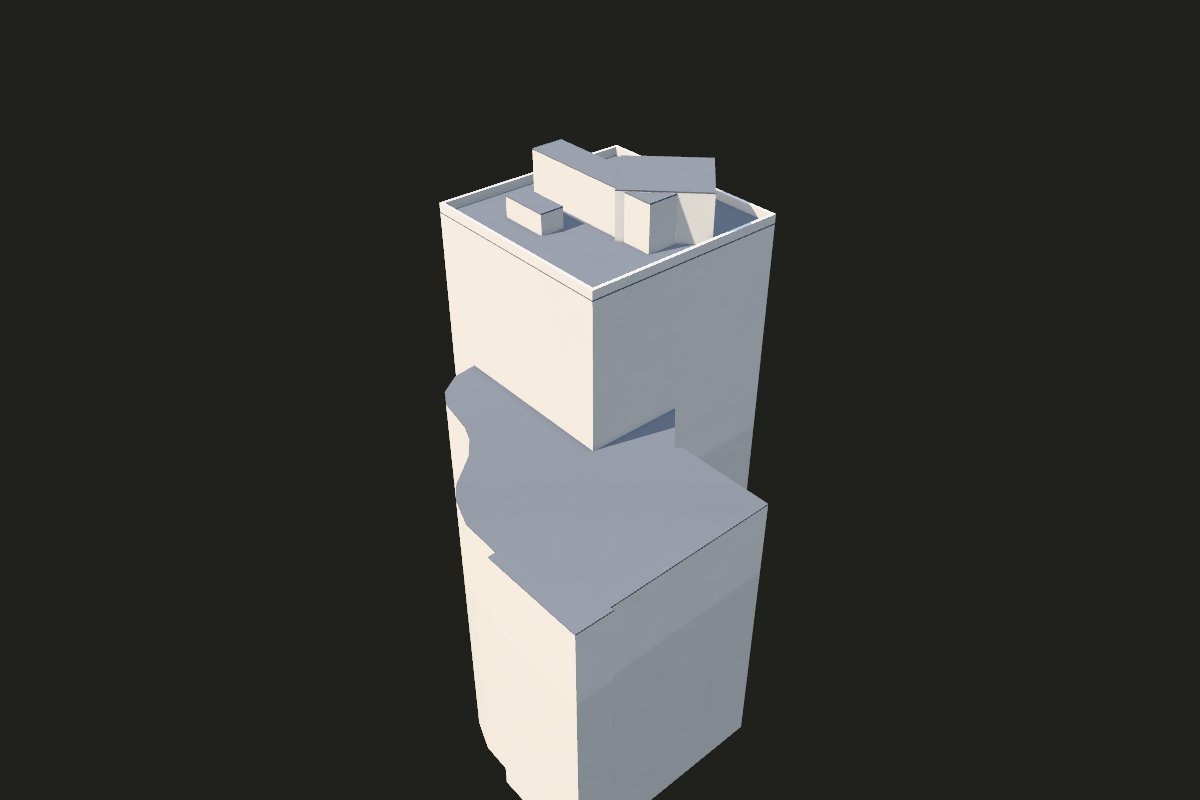
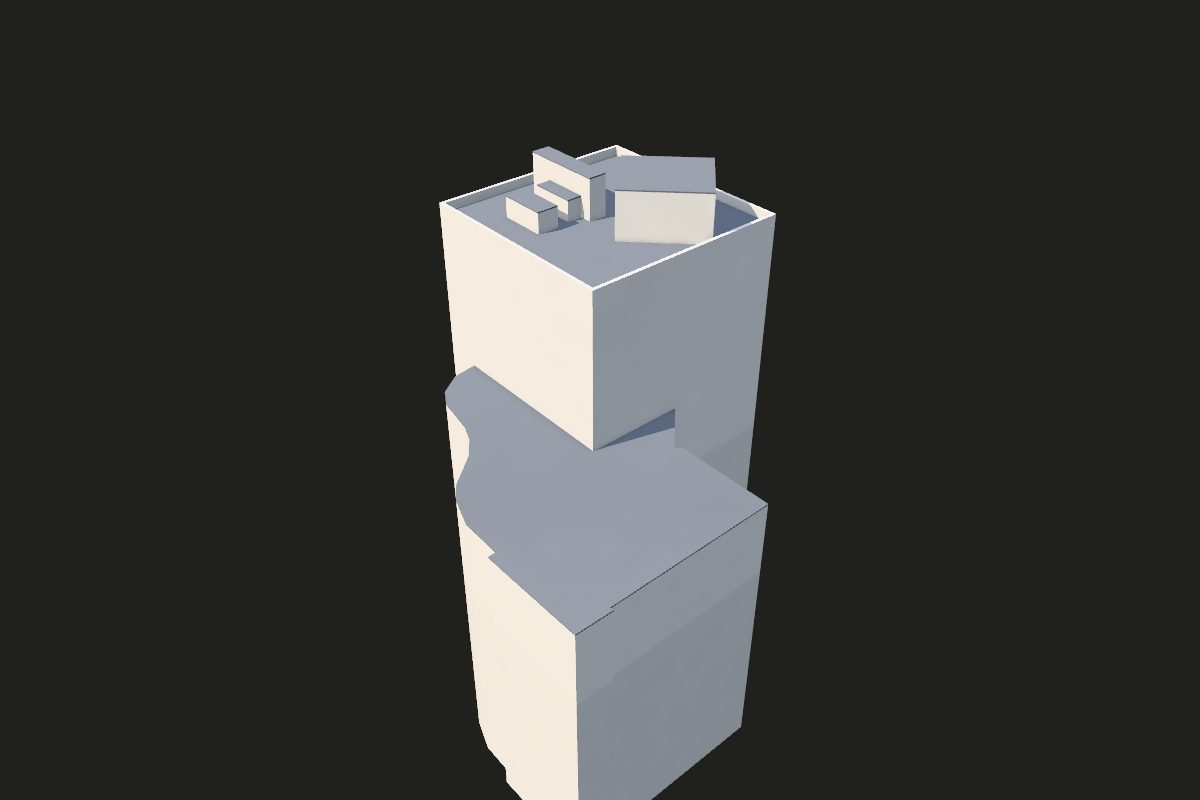
67 Symonds Street (619), the review's round 1
The bar over the tower's roof is drawn to the LiDAR's returns over 94 m (u -17.1 to -7.5, w 5.0 to
7.2, at 95.2 m); it had run out west of the turned block over bare roof. A second plant room at
92.8 m (u -14.2 to -8.9, w 3.2 to 5.0) is added, and the first is trimmed to u -8.6. The podium's
east side is drawn 0.1 m inside the tower's east face: the campus map's ring had stood 0.15 to
0.21 m out from it, from the walls' foot to 72.6 m. The tower's walls are white up to the
parapet's top, and its roof slab sits inside the parapet, so no grey band runs round the tower
under its top. The windows are four rows, the ones the photograph sees, not five. The porch's plan
(the campus map's outline) is named as estimated in the config, and so on the card.

MASSING.md: the generator measures 26 stand-ins, not 27. The README says that 67 Symonds Street
is now a landmark. The README, the landmark's README and its contract carry the new figures:
744 triangles in 4 draw calls; silhouette IoU 0.947 in the model's box (0.698 over the
photograph); top view IoU 0.929, 80% of cells within 0.5 m. The four pictures are retaken.

Claude-Session: https://claude.ai/code/session_01WyPcwFTXkmVC7XB6LWPSiH

Changed region(s): [[0.4317, 0.1562, 0.5858, 0.3125]]

diff --git a/landmarks/67-symonds-street/parts/common.js b/landmarks/67-symonds-street/parts/common.js
@@ -16,26 +16,29 @@ export const at = (u, w) => [-u, w];
 export const H = (h) => h - 7.83;
 export const plan = (corners) => corners.map(([u, w]) => at(u, w));
 
-// The ground round the building lies from -15.8 (the gully on the west and north, about 39.9 m) to 7.8 (the street on
-// the south); the walls go down to FOOT.
+// The ground round the building lies from -15.8 (the gully on the west and north, about 39.9 m) to 7.8 (63.5 m on its
+// south side; the street before it rises to 66.5 m); the walls go down to FOOT.
 export const FOOT = H(-16.7);
 
 /** The podium: the campus map's ring (in the frame), its roof at 16.94 (the LiDAR's 72.5 to 73.8 m over it, 72.6 the
  * most), with the tower standing on it; but for the ring's triangle south of the tower's south-east part (the porch,
- * below), which the LiDAR sees the ground under (120 returns at 61.9 to 65.4 m), the ring's south side drawn 0.1 m
- * inside the tower's south face, which goes down to the ground. */
+ * below), which the LiDAR sees the ground under, the ring's south side drawn 0.1 m inside the tower's south face, which
+ * goes down to the ground; and its east side 0.1 m inside the tower's east face, where the ring stands 0.15 to 0.21 m
+ * out from it (the LiDAR's returns on that face run on from 56 to 90 m with no step at the podium's roof). */
 export const PODIUM = {
   plan: [[23.42, -22.81], [23.43, -18.51], [23.02, -18.6], [22.74, 1.81], [11.14, 1.71], [10.53, 1.12], [5.26, 6.26],
-    [5.2, 19.55], [-20.11, 19.55],
-    [-20.05, -5.5], [-15.65, -5.51], [-15.23, -8.52], [-13.3, -11.27], [-11.32, -12.42], [-6.64, -13.24],
+    [5.2, 19.55], [-19.8, 19.55],
+    [-19.8, -5.5], [-15.65, -5.51], [-15.23, -8.52], [-13.3, -11.27], [-11.32, -12.42], [-6.64, -13.24],
     [-4.47, -14.1], [-2.11, -15.86], [0.8, -19.33], [2.77, -20.68], [6.14, -21.87], [11.14, -22.0], [11.11, -22.9],
     [14.51, -22.88]],
   top: H(16.94),
 };
 
-/** The porch over the entrance, in the ring's triangle south of the tower: the LiDAR's roof at 71.0 to 72.3 m (p50 71.9)
- * over the ground it sees through it, drawn as a glass roof from 71.66 to 72.26 m on the tower's face; the glass
- * pyramid the photograph shows on it, its top about 74.8 m through the photograph's camera, is not drawn. */
+/** The porch over the entrance, in the ring's triangle south of the tower: the LiDAR's roof at 71.0 to 72.3 m (p50
+ * 71.9) over the ground it sees through it, drawn as a glass roof from 71.66 to 72.26 m on the tower's face. Its plan
+ * is the ring's triangle (estimated: the LiDAR's roof at that height runs on into the walkway's canopy outside the
+ * ring, with no edge between them); the glass pyramid the photograph shows on it, its top about 74.8 m through the
+ * photograph's camera, is not drawn. */
 export const PORCH = {
   plan: [[-7.7, 19.65], [-11.9, 23.8], [-14.47, 21.06], [-17.97, 21.05], [-19.31, 19.65]].reverse(),
   y: [H(16.0), H(16.6)],
@@ -52,25 +55,32 @@ export const TOWER = {
   thick: 0.4,
 };
 
-/** Over the tower's roof, from the LiDAR's returns over 95 m: a square block turned 45 degrees (its sides on u + w =
- * 1.65 and 15.74 and u - w = -18.79 and -6.2, p0.5 and p99.5 of its returns) to 96.0 m (40.34; p50 95.53, p90
- * 96.05), a bar along its south-east side (u -16.6 to 2.1, w 4.6 to 8.6) to 95.8 m (40.14), and plant at 92.8 m
- * (37.14) over u -14.1 to -8.1, w -1.0 to 1.9. */
+/** Over the tower's roof, from the LiDAR's returns: a square block turned 45 degrees (its sides on u + w = 1.65 and
+ * 15.74 and u - w = -18.79 and -6.2, p0.5 and p99.5 of its returns over 95 m) to 96.0 m (40.34; p50 95.53, p90
+ * 96.05); east of it a bar (u -17.1 to -7.5, w 5.0 to 7.2, its returns over 94 m) to 95.2 m (39.54; p50 95.14); and two
+ * plant rooms at 92.8 m (37.14; p50 92.77), u -14.1 to -8.6, w -1.0 to 1.6, and u -14.2 to -8.9, w 3.2 to 5.0. */
 export const CORE = [
   { plan: [[-2.28, 3.93], [4.77, 10.97], [-1.53, 17.27], [-8.57, 10.22]], top: H(40.34) },
-  { plan: [[-16.6, 4.6], [2.1, 4.6], [2.1, 8.6], [-16.6, 8.6]], top: H(40.14) },
-  { plan: [[-14.1, -1.0], [-8.1, -1.0], [-8.1, 1.9], [-14.1, 1.9]], top: H(37.14) },
+  { plan: [[-17.1, 5.0], [-7.5, 5.0], [-7.5, 7.2], [-17.1, 7.2]], top: H(39.54) },
+  { plan: [[-14.1, -1.0], [-8.6, -1.0], [-8.6, 1.6], [-14.1, 1.6]], top: H(37.14) },
+  { plan: [[-14.2, 3.2], [-8.9, 3.2], [-8.9, 5.0], [-14.2, 5.0]], top: H(37.14) },
 ];
 
 /** The faces the photograph sees, every place and height estimated through its fitted camera (rms 2.25 px): storeys
- * 4.04 m apart, the top windows' heads at 34.78 (0.9 m under the parapet's top) and each window 2.46 m tall, five rows
- * seen over the entrance's canopy. On the south face (w 19.65) three columns of windows (u -9.34 to -7.45, -12.14 to
- * -10.29, -15.16 to -13.17), a curved glazed bay (u -6.38 to -2.24) with dark bands from 31.08 to 33.96 a storey, and
- * plain panels either side; on the east face (u -19.9) a louvred panel (w 12.55 to 15.13) and three windows (w 9.30 to
- * 11.81, 5.65 to 8.39, 1.89 to 4.66) a storey, the rest behind a tree. */
+ * 4.04 m apart, the top windows' heads at 34.48 (the camera puts them at 34.78, 0.14 m over the roof's deck at 34.64:
+ * drawn 0.3 m lower, under it) and each window 2.46 m tall, the four rows the photograph sees over the porch. On the
+ * south face (w 19.65) three columns of windows (u -9.34 to -7.45, -12.14 to -10.29, -15.16 to -13.17), a curved
+ * glazed bay (u -6.38 to -2.24) with dark bands from 31.08 to 33.96 a storey, and plain panels either side; on the
+ * east face (u -19.9) a louvred panel (w 12.55 to 15.13) and three windows (w 9.30 to 11.81, 5.65 to 8.39, 1.89 to
+ * 4.66) a storey, the rest behind a tree. */
 export const FACES = {
-  heads: [0, 1, 2, 3, 4].map((k) => H(34.78 - 4.04 * k)),
+  heads: [0, 1, 2, 3].map((k) => H(34.48 - 4.04 * k)),
   window: 2.46,
-  south: { w: 19.65, windows: [[-9.34, -7.45], [-12.14, -10.29], [-15.16, -13.17]], bay: [-6.38, -2.24], band: [H(31.08), H(33.96)] },
+  south: {
+    w: 19.65,
+    windows: [[-9.34, -7.45], [-12.14, -10.29], [-15.16, -13.17]],
+    bay: [-6.38, -2.24],
+    band: [H(31.08), H(33.96)],
+  },
   east: { u: -19.9, louvre: [12.55, 15.13], windows: [[9.30, 11.81], [5.65, 8.39], [1.89, 4.66]] },
 };

diff --git a/landmarks/67-symonds-street/parts/block.js b/landmarks/67-symonds-street/parts/block.js
@@ -11,16 +11,19 @@ export function podium(b) {
 }
 
 /** The tower: its walls from the walls' foot (its south face goes down to the ground, the podium standing inside it
- * elsewhere) to its roof, the roof inside the parapet, and the parapet round it. */
+ * elsewhere) to the roof slab's underside, the parapet on them round its edge to its top, and the roof inside the
+ * parapet, so that the walls are white up to the parapet's top. */
 export function tower(b) {
   const [u0, u1] = TOWER.u, [w0, w1] = TOWER.w, t = TOWER.thick;
-  block(b, plan([[u0, w0], [u1, w0], [u1, w1], [u0, w1]]), FOOT, TOWER.roof, WALL, ROOFS);
+  prism(b, plan([[u0, w0], [u1, w0], [u1, w1], [u0, w1]]), FOOT, TOWER.roof - 0.15, WALL);
+  const inner = [[u0 + t, w0 + t], [u1 - t, w0 + t], [u1 - t, w1 - t], [u0 + t, w1 - t]];
+  prism(b, plan(inner), TOWER.roof - 0.15, TOWER.roof, ROOFS);
   for (const p of [
     [[u0, w0], [u1, w0], [u1, w0 + t], [u0, w0 + t]],
     [[u0, w1 - t], [u1, w1 - t], [u1, w1], [u0, w1]],
     [[u0, w0 + t], [u0 + t, w0 + t], [u0 + t, w1 - t], [u0, w1 - t]],
     [[u1 - t, w0 + t], [u1, w0 + t], [u1, w1 - t], [u1 - t, w1 - t]],
-  ]) prism(b, plan(p), TOWER.roof + 0.01, TOWER.parapet, WALL);
+  ]) prism(b, plan(p), TOWER.roof - 0.15, TOWER.parapet, WALL);
 }
 
 /** The porch's glass roof on the tower's south face, open under it. */

diff --git a/landmarks/67-symonds-street/parts/facade.js b/landmarks/67-symonds-street/parts/facade.js
@@ -11,7 +11,8 @@ function south(b, d0, d1, [u0, u1], [y0, y1], material) {
   prism(b, [[-u0, w + d0], [-u1, w + d0], [-u1, w + d1], [-u0, w + d1]], y0, y1, material);
 }
 
-/** A box on the east face (u = FACES.east.u), from d0 to d1 in front of it (to the east), over [w0, w1] and [y0, y1]. */
+/** A box on the east face (u = FACES.east.u), from d0 to d1 in front of it (to the east), over [w0, w1] and
+ * [y0, y1]. */
 function east(b, d0, d1, [w0, w1], [y0, y1], material) {
   const u = FACES.east.u;
   prism(b, [[-(u - d0), w0], [-(u - d1), w0], [-(u - d1), w1], [-(u - d0), w1]], y0, y1, material);

diff --git a/landmarks/67-symonds-street/docs/CONTRACT.md b/landmarks/67-symonds-street/docs/CONTRACT.md
@@ -13,12 +13,12 @@ The rules every part of this landmark keeps. The kit, the pipeline and the viewe
   one above the door's ground (7.83 m higher).
 - What the LiDAR shows (`parts/common.js` holds the numbers): a tower (u -19.9 to 5.5, w -5.65 to 19.65) with its
   parapet's top at 91.30 to 91.36 m and its roof at 90.3 m, a block turned 45 degrees and a bar over its roof to 96.0
-  and 95.8 m and plant at 92.8 m; a podium round its north and west, inside the campus map's ring, its roof at 72.5 to
-  73.8 m, running down the slope to the gully on the west (its ground at about 40 m); in the ring's triangle south of
-  the tower's south-east part a roof at 71.0 to 72.3 m over ground the LiDAR sees through it (the porch). The walkway
-  and its canopy, outside the ring, and the lower block to the south-west (65 m) are not drawn.
+  and 95.2 m and two plant rooms at 92.8 m; a podium round its north and west, inside the campus map's ring, its roof at
+  72.5 to 73.8 m, running down the slope to the gully on the west (its ground at about 40 m); in the ring's triangle
+  south of the tower's south-east part a roof at 71.0 to 72.3 m over ground the LiDAR sees through it (the porch). The
+  walkway and its canopy, outside the ring, and the lower block to the south-west (65 m) are not drawn.
 - Walls go down to `FOOT`, 16.7 m under 55.66 m (38.96 m): the ground round the ring lies from 39.9 m (the gully) to
-  66.5 m (the street).
+  63.5 m on its south side, the street before it rising to 66.5 m.
 
 ## Who owns what
 - `parts/common.js` (the measured sizes and the frame), `parts/block.js`, `parts/facade.js`, `parts/shapes.js` (114's),
@@ -26,7 +26,7 @@ The rules every part of this landmark keeps. The kit, the pipeline and the viewe
 
 ## Budget
 - Whole building ≤ 100k triangles and ≤ 10 draw calls (tier 2, a stand-in measured massing drawn in detail), merged by
-  material. Round 0 and steps 5 to 7: 816 triangles, 4 draw calls.
+  material. Round 0 and steps 5 to 7: 816 triangles, 4 draw calls; the review's round 1: 744, 4.
 
 ## Rounds
 - Round 0 to step 7 (2026-11-11, the lead alone): the podium on the campus map's ring at the LiDAR's roof, the tower at
@@ -35,18 +35,27 @@ The rules every part of this landmark keeps. The kit, the pipeline and the viewe
   to the tower's two roof edges against the sky, its south-east and south-west corners and their verticals (rms 2.25 px,
   1.67 m over the LiDAR's ground at the camera, a lens of 46.6 degrees, about 57 m from the south-east corner). The
   faces it sees, estimated through it: storeys 4.04 m apart, five rows of windows (`glass`) on the south face's three
-  columns and the east face's three, its louvred panels (`claddingPale`), the curved bay's dark bands. The door on the
-  walkway before the porch (63.49 m; no record of the entrance), `H`, the thresholds and the camera moved with it. The
-  light: the sun high to the north-north-east (15 deg, 45 up), exposure 0.62: the south face's plain panels 143 against
-  144, the east face's 198 against 194. Silhouette IoU 0.944 in the model's box (0.697 over the photograph); luma p50
-  144 against 152. Top view: footprint IoU 0.929, 79% of 5,200 cells within 0.5 m (the podium's and the tower's parapets
-  and the plant over the roofs, not drawn, make most of the rest); the highest point 32.52 m over the door's ground
-  against the LiDAR's 32.66; block 619 99.9% under the model.
+  columns and the east face's three, its louvred panels (`claddingPale`), the curved bay's dark bands. The
+  door on the walkway before the porch (63.49 m; no record of the entrance), `H`, the thresholds and the camera moved
+  with it. The light: the sun high to the north-north-east (15 deg, 45 up), exposure 0.62: the south face's plain panels
+  143 against 144, the east face's 198 against 194. Silhouette IoU 0.944 in the model's box (0.697 over the photograph);
+  luma p50 144 against 152. Top view: footprint IoU 0.929, 79% of 5,200 cells within 0.5 m (the podium's parapets and
+  the plant on its roof, not drawn, make most of the rest); the highest point 32.52 m over the door's ground against the
+  LiDAR's 32.66; block 619 99.9% under the model.
 
 - Step 8 (2026-11-11): on the site; the tower's walls down to the walls' foot, the podium's south side 0.1 m inside
   the tower's south face and the parapet from 1 cm over the roof's slab, where the landmark tests' faces check found
   faces of two materials in one plane; the roofs mid-grey (`roofGrey`), as the 2023 aerial shows them (luma 124 to
   184). 816 triangles, 4 draw calls.
+
+- The review's round 1 (2026-11-11): the bar over the roof to the LiDAR's returns over 94 m (u -17.1 to -7.5, w 5.0
+  to 7.2, at 95.2 m; it ran out west of the turned block over bare roof), a second plant room at 92.8 m (u -14.2 to
+  -8.9, w 3.2 to 5.0) and the first trimmed to u -8.6; the podium's east side inside the tower's east face, where the
+  ring stood 0.2 m out from it from the walls' foot to 72.6 m; the tower's walls white up to the parapet's top, the roof
+  slab inside the parapet; four rows of windows, the ones the photograph sees, their heads 0.3 m under the camera's,
+  under the roof's deck; the porch's plan named as the campus map's (estimated); the stand-ins the generator measures
+  26. 744 triangles, 4 draw calls; silhouette IoU 0.947 in the model's box (0.698 over the photograph), luma p50 144
+  against 152; top view: footprint IoU 0.929, 80% of 5,200 cells within 0.5 m.
 
 ## Rules
 - Measure, don't guess: a size not from the LiDAR is named in the config's `estimated`, here and on the card.

diff --git a/landmarks/67-symonds-street/README.md b/landmarks/67-symonds-street/README.md
@@ -61,17 +61,23 @@ estimated; it is a reference for the look and the comparison.
   p99.5), its top at 91.35 m (91.30 to 91.36 along every edge), 0.4 m thick (estimated); its roof inside at 90.3 m
   (`roofGrey`). Its south face goes down to the walls' foot.
 - **Over its roof**: a block turned 45 degrees (its sides on u + w = 1.65 and 15.74 and u - w = -18.79 and -6.2) to 96.0
-  m, a bar along its south-east side (u -16.6 to 2.1, w 4.6 to 8.6) to 95.8 m, and plant at 92.8 m (u -14.1 to -8.1, w
-  -1.0 to 1.9): the LiDAR's returns over 95 m and at 92.8.
-- **The podium** (`paint`, its roof `roofGrey`): the campus map's ring, its roof at 72.6 m (the LiDAR's 72.5 to 73.8
+  m; east of it a bar (u -17.1 to -7.5, w 5.0 to 7.2) to 95.2 m; and two plant rooms at 92.8 m (u -14.1 to -8.6, w -1.0
+  to 1.6, and u -14.2 to -8.9, w 3.2 to 5.0): the LiDAR's returns over 95 m, over 94 m and at 92.4 to 93.2 m.
+- **The podium** (`paint`, its roof `roofGrey`): the campus map's ring, its south and east sides drawn 0.1 m inside the
+  tower's faces (on the east the ring stands 0.15 to 0.21 m out from the tower, where the LiDAR's returns on that face
+  run on from 56 to 90 m with no step at the podium's roof), its roof at 72.6 m (the LiDAR's 72.5 to 73.8
   over it), down to the walls' foot; it runs down the slope to the gully on the west, where the ground lies at about 40
   m. Its walls follow the ring (estimated); the LiDAR's roof reaches past it by up to about 1 m in places.
 - **The porch**: in the ring's triangle south of the tower's south-east part, the LiDAR has a roof at 71.0 to 72.3 m
-  (p50 71.9) over the ground it sees through it (120 returns at 61.9 to 65.4 m): a glass roof (`glass`) from 71.66 to
-  72.26 m on the tower's face, open under it. The glass pyramid the photograph shows on it (its top about 74.8 m
-  through the photograph's camera) is not drawn.
+  (p50 71.9) over the ground it sees through it and round it (120 ground returns at 61.9 to 65.4 m over u -20 to -7, w
+  19.8 to 24.5, 3 of them inside the triangle itself): a glass roof (`glass`) from 71.66 to
+  72.26 m on the tower's face, open under it. Its plan is the ring's triangle (estimated: the LiDAR's roof at that
+  height runs on into the walkway's canopy outside the ring, with no edge between them). The glass pyramid the
+  photograph shows on it (its top about 74.8 m through the photograph's camera) is not drawn, nor a flat layer under its
+  roof at 65.3 to 65.9 m (about 38 returns: a landing or the walkway's deck).
 - **The faces the photograph sees**, through its fitted camera (estimated): storeys 4.04 m apart, the top windows' heads
-  0.9 m under the parapet's top and each window 2.46 m tall, five rows seen over the porch; on the south face three
+  at 90.0 m (the camera puts them at 90.44, 0.14 m over the roof's deck: drawn 0.3 m lower, under it) and each window
+  2.46 m tall, the four rows the photograph sees over the porch; on the south face three
   columns of windows (`glass`; u -9.34 to -7.45, -12.14 to -10.29, -15.16 to -13.17), the curved bay (u -6.38 to -2.24)
   as dark bands from 31.08 to 33.96 m over 55.66 m a storey, and plain panels either side; on the east face a louvred
   panel (`claddingPale`, w 12.55 to 15.13) and three windows (w 9.30 to 11.81, 5.65 to 8.39, 1.89 to 4.66) a storey.
@@ -81,10 +87,10 @@ estimated; it is a reference for the look and the comparison.
   against the photograph's 144 and 149, of the east face's 198 against 194 (the compare's figure over the model's screen
   box: 144 against 152).
 
-Silhouette IoU 0.944 in the model's screen box (0.697 over the photograph, whose neighbouring towers, tree and canopy
+Silhouette IoU 0.947 in the model's screen box (0.698 over the photograph, whose neighbouring towers, tree and canopy
 the model does not draw). The top view: footprint IoU 0.929 (the LiDAR's 1,400 m² against the model's 1,303, both
-1,302), 79% of the 5,200 cells both cover within 0.5 m (p10/p50/p90 -1.09/0.05/0.19 m: the parapets and plant on the
-roofs make most of the rest); the highest point 32.52 m over the door's ground against the LiDAR's 32.66 (p99.9). 816
+1,302), 80% of the 5,200 cells both cover within 0.5 m (p10/p50/p90 -1.13/0.04/0.10 m: the parapets and plant on the
+roofs make most of the rest); the highest point 32.52 m over the door's ground against the LiDAR's 32.66 (p99.9). 744
 triangles, 4 draw calls.
 
 ## On the map (step 7)

diff --git a/README.md b/README.md
@@ -868,12 +868,12 @@ white office tower of about eight storeys over Symonds Street, with a block turn
 on a podium that runs down the slope to the gully on its north and west; on its south face three columns of windows
 and a curved bay of dark glass bands, on its east face louvred panels and windows; a glass porch over its entrance.
 Its heights and plans come from the LiDAR, which also sees the ground under the porch's roof; the windows, the bay's
-bands and the louvres are estimated with the photograph as a reference, and the podium's walls follow the campus map's
-outline. One photograph from the street south-east of the tower, under an overcast sky; counted inside the rectangle
-the model fills on the screen, its silhouette has an IoU of 0.94 in it, and the brightness of its faces is within 8
-of the photograph's. From above its outline covers the LiDAR's with an IoU of 0.93, and on 79% of the cells both cover
-it is within 0.5 m of the LiDAR's height (the parapets and plant on its roofs make most of the rest). What the
-photograph does not show is drawn plainly.
+bands and the louvres are estimated with the photograph as a reference, and the porch's plan and the podium's walls
+follow the campus map's outline. One photograph from the street south-east of the tower, under an overcast sky; counted
+inside the rectangle the model fills on the screen, its silhouette has an IoU of 0.95 in it, and the brightness of its
+faces is within 8 of the photograph's. From above its outline covers the LiDAR's with an IoU of 0.93, and on 80% of the
+cells both cover it is within 0.5 m of the LiDAR's height (the parapets and plant on its roofs make most of the rest).
+What the photograph does not show is drawn plainly.
 
 | | |
 | --- | --- |
@@ -914,9 +914,8 @@ root (`python3 -m http.server 8765 --bind 127.0.0.1`) and open
   measured heights, walls, storeys and windows by the street look's rules. Twenty-one are on the site
   (`landmarks/measured/`): on the City campus ten plain buildings, and four of the buildings planned
   as landmarks, which they stand in for until their landmarks come; on the Grafton campus one, and on
-  the Newmarket campus six. 67 Symonds Street, one of those planned as landmarks, is now one. The other buildings it
-  measures keep their blocks, each with its reason
-  in `landmarks/measured/exclusions.json`.
+  the Newmarket campus six. 67 Symonds Street, which a measured massing stood in for, is now a landmark. The other
+  buildings it measures keep their blocks, each with its reason in `landmarks/measured/exclusions.json`.
 - What every landmark shares ([`landmarks/`](landmarks/README.md)): the kit the models are built
   with, the viewer, and the pipeline (`landmarks/pipeline/run.sh <name>`: measure from the LiDAR,
   collect the Street View references (or fit a photograph's camera), correct their cameras, render and

diff --git a/CHANGELOG.md b/CHANGELOG.md
@@ -24,10 +24,10 @@ A change to what the site does or shows adds its line here, and the README's
   west; on its south face three columns of windows and a curved bay of dark glass bands, on its east face louvred
   panels and windows; a glass porch over its entrance. Its sizes come from the LINZ 2024 LiDAR; it was compared with a
   photograph from the street, and its card says what is estimated: the windows, the bay's bands and the louvres, with
-  the photograph as a reference, the parapet's thickness, the porch's roof drawn as a slab, the podium's walls drawn
-  to the campus map's outline, and the faces no photograph shows. Its measured massing's data file has gone. On the
-  map it has the map's colours; from a walker's height on a computer with a graphics card, its own walls, glass and
-  roofs (#PR).
+  the photograph as a reference, the parapet's thickness, the porch's roof drawn as a slab, the porch's plan and the
+  podium's walls drawn to the campus map's outline, and the faces no photograph shows. Its measured massing's data file
+  has gone. On the map it has the map's colours; from a walker's height on a computer with a graphics card, its own
+  walls, glass and roofs (#PR).
 
 ## 2026-11-10
 

diff --git a/landmarks/MASSING.md b/landmarks/MASSING.md
@@ -258,7 +258,7 @@ leaves out every building that the site draws as a landmark (it reads each
 now on the site too). Making one
 a landmark deletes its data file in the same pull request; a run over every building also drops the
 data file of a building that has become a landmark. 53 buildings of tiers 1 and 2 lie in the tiles;
-leaving out the landmarks and `SOON`, it measures 27 (40 before 250, the Music School, 315, the Kate Edger
+leaving out the landmarks and `SOON`, it measures 26 (40 before 250, the Music School, 315, the Kate Edger
 Information Commons, 206, the Humanities Building, 302, the Science Centre's tower, 303, building 303 of
 the Science Centre, 303S, building 303S of the Science Centre, 421E, Architecture - East, 421W,
 Architecture - West, 439, Auckland Bioengineering House, 260, the Sir Owen G Glenn Building, 620, 49
